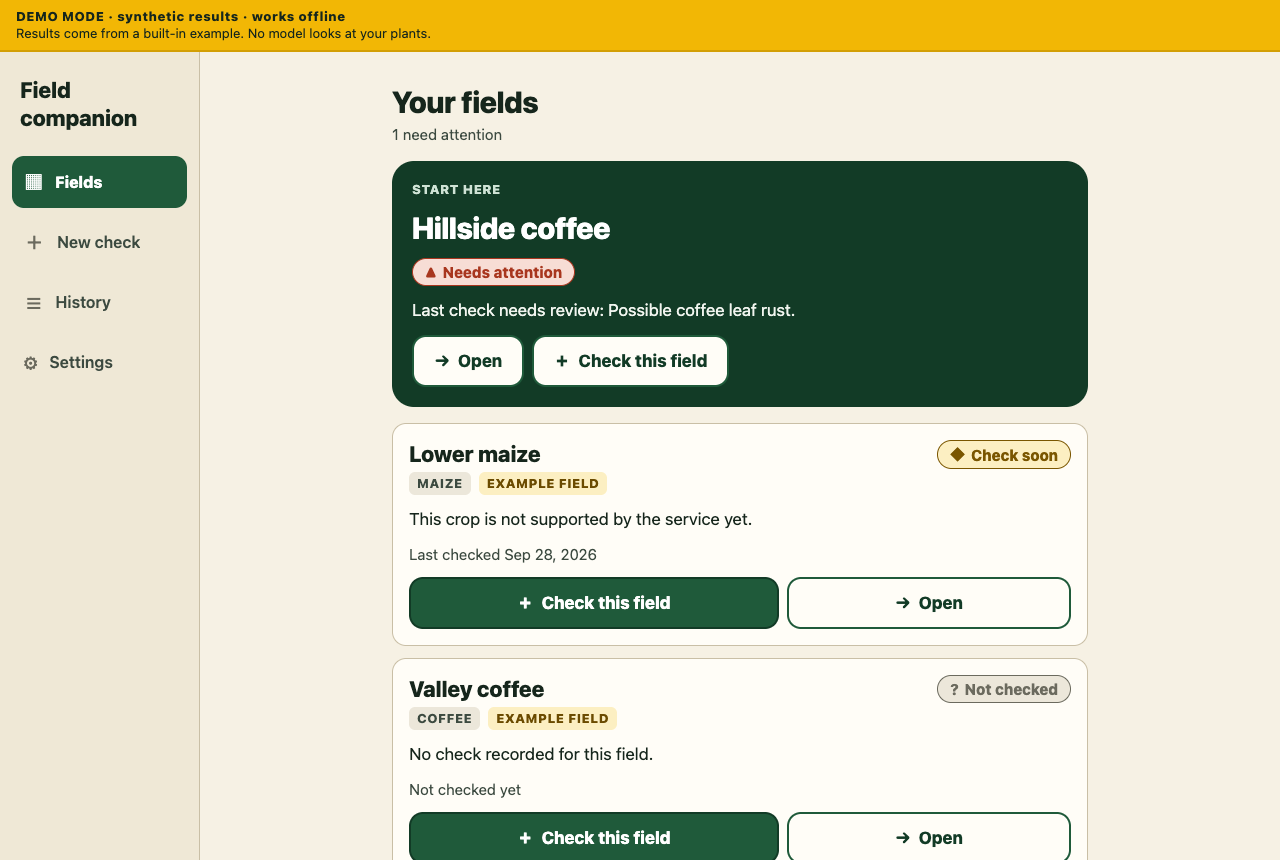
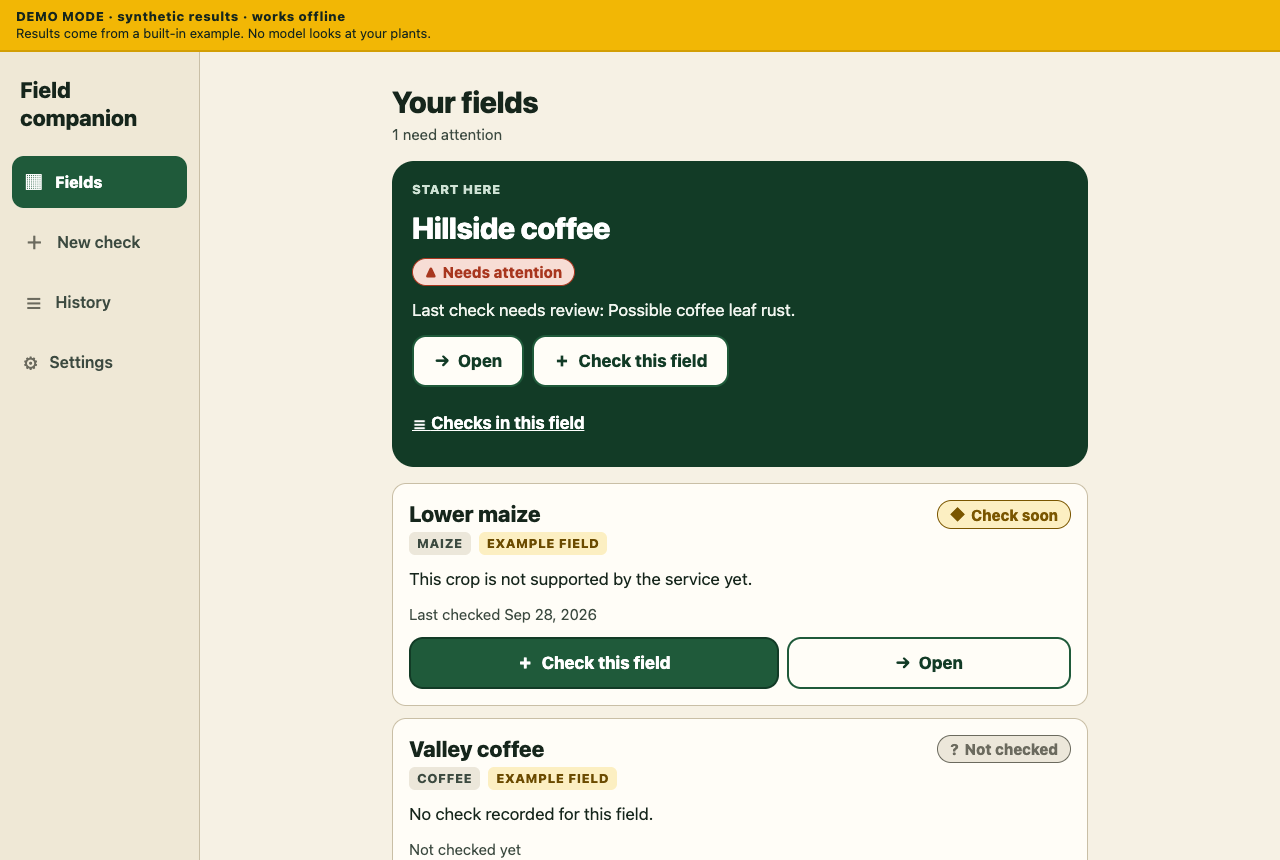
Field page: compare last two checks; reach hero field's timeline
Monitor step shows the two latest analysed checks side by side (label,
status, evidence score, weather class) with an uncalibrated-score note;
no trend is inferred. 'Start here' card gains a link to that field's
checks, which was previously unreachable from home.

Changed region(s): [[0.2812, 0.4535, 0.875, 1.0], [0.7188, 0.5744, 0.8438, 0.6349], [0.7188, 0.9674, 0.75, 0.9977]]

diff --git a/frontend/src/screens/HistoryScreens.tsx b/frontend/src/screens/HistoryScreens.tsx
@@ -70,8 +70,36 @@ export function FieldScreen({ nav, fieldId }: { nav: Nav; fieldId: string }) {
         <Body soft>{field.location ? t('field.location', { lat: field.location.latitude.toFixed(3), lon: field.location.longitude.toFixed(3) }) : t('field.noLocation')}</Body>
       </View>
       <Button label={t('field.newCheck')} icon="＋" onPress={() => nav.push({ name: 'check', fieldId })} />
+      <CompareLastTwo records={records} />
       <H2>{t('field.timeline')}</H2>
       {records.length ? records.map(r => <RecordRow key={r.id} record={r} nav={nav} />) : <Card><Body>{t('field.noChecks')}</Body></Card>}
     </View>
+  );
+}
+
+/** Monitor: the two most recent analysed checks side by side. Displays backend values only; no trend is inferred. */
+function CompareLastTwo({ records }: { records: ObservationRecord[] }) {
+  const { t, state } = useStore();
+  const done = records.filter(r => r.analysis.kind === 'done').slice(0, 2);
+  if (done.length < 2) return null;
+  const cell = (r: ObservationRecord, label: string) => {
+    const a = r.analysis.kind === 'done' ? r.analysis.analysis : undefined;
+    if (!a) return null;
+    return (
+      <View style={{ flex: 1, minWidth: 140, gap: space(1), padding: space(3), borderRadius: radius.sm, backgroundColor: color.paper }}>
+        <Text style={type.label}>{label.toUpperCase()} · {formatDate(r.createdAt, state.settings.locale)}</Text>
+        <Text style={type.heading}>{a.condition.label}</Text>
+        <Text style={type.small}>{t(`result.status.${a.status}` as MessageId)}</Text>
+        <Text style={type.small}>{t('field.compare.score', { score: a.condition.confidence.toFixed(2) })}</Text>
+        {a.weather_risk?.class ? <Text style={type.small}>{t('field.compare.weather', { cls: t(`result.weather.class.${a.weather_risk.class}` as MessageId) })}</Text> : null}
+      </View>
+    );
+  };
+  return (
+    <Card>
+      <H2 glyph="⇆">{t('field.compare')}</H2>
+      <Row wrap style={{ alignItems: 'stretch' }}>{cell(done[1], t('field.compare.before'))}{cell(done[0], t('field.compare.latest'))}</Row>
+      <Body soft>{t('field.compare.note')}</Body>
+    </Card>
   );
 }

diff --git a/frontend/src/screens/FieldsScreen.tsx b/frontend/src/screens/FieldsScreen.tsx
@@ -1,5 +1,5 @@
 import React, { useMemo, useState } from 'react';
-import { Text, TextInput, View } from 'react-native';
+import { Pressable, Text, TextInput, View } from 'react-native';
 import { fieldAttention, sortFieldsByAttention, type Field } from '../domain/model';
 import { formatDate, type MessageId } from '../i18n';
 import type { Nav } from '../navigation';
@@ -47,6 +47,10 @@ export function FieldsScreen({ nav }: { nav: Nav }) {
               : null}
             <Button kind="secondary" label={t('fields.checkThis')} a11yLabel={`${t('fields.checkThis')}: ${top.field.name}`} icon="＋" onPress={() => nav.push({ name: 'check', fieldId: top.field.id })} />
           </Row>
+          <Pressable accessibilityRole="button" accessibilityLabel={`${t('field.timeline')}: ${top.field.name}`} onPress={() => nav.push({ name: 'field', fieldId: top.field.id })}
+            style={{ minHeight: 48, justifyContent: 'center', alignSelf: 'flex-start' }}>
+            <Text style={[type.body, { color: '#fff', textDecorationLine: 'underline', fontWeight: '700' }]}>☰ {t('field.timeline')}</Text>
+          </Pressable>
         </View>
       ) : null}
 

diff --git a/frontend/src/i18n/fr.ts b/frontend/src/i18n/fr.ts
@@ -249,6 +249,12 @@ export const fr: Messages = {
   'mode.http.unverified': 'Pas encore vérifié. Ouvrez les réglages et touchez « Tester la connexion ».',
   'result.photo.notDurable': 'La photo n’a pas pu être copiée dans l’application. Elle est seulement liée depuis la galerie ou un dossier temporaire et peut disparaître. Votre constat est enregistré.',
   'result.regional': 'Dans votre région',
+  'field.compare': 'Comparer les deux derniers constats',
+  'field.compare.before': 'Avant',
+  'field.compare.latest': 'Dernier',
+  'field.compare.score': 'Score des indices {score}',
+  'field.compare.weather': 'Météo favorable : {cls}',
+  'field.compare.note': 'Les scores ne sont pas calibrés et dépendent de ce qui a été signalé à chaque fois ; un score différent ne signifie pas à lui seul que la maladie a progressé ou reculé.',
   'common.loading': 'Chargement…',
   'common.close': 'Fermer',
   'common.yes': 'Oui',

diff --git a/frontend/src/i18n/en.ts b/frontend/src/i18n/en.ts
@@ -247,6 +247,12 @@ export const en = {
   'mode.http.unverified': 'Not checked yet. Open Settings and tap Test connection.',
   'result.photo.notDurable': 'The photo could not be copied into app storage. It is only linked from the gallery or a temporary folder and may disappear. Your report is saved.',
   'result.regional': 'In your region',
+  'field.compare': 'Compare the last two checks',
+  'field.compare.before': 'Before',
+  'field.compare.latest': 'Latest',
+  'field.compare.score': 'Evidence score {score}',
+  'field.compare.weather': 'Weather favourability: {cls}',
+  'field.compare.note': 'Scores are uncalibrated and depend on what was reported each time; a different score does not by itself mean the disease got better or worse.',
   'common.loading': 'Loading…',
   'common.close': 'Close',
   'common.yes': 'Yes',

diff --git a/docs/frontend/README.md b/docs/frontend/README.md
@@ -7,7 +7,7 @@ Expo / React Native / TypeScript client for web, iOS and Android. Contract 0.1.0
 1. **Fields** — fields sorted by attention; a "Start here" card names the one field to look at and why. Attention is a presentation summary of the latest backend `status` plus record age (needs review → *Needs attention*; pending/failed/overdue/follow-up due → *Check soon*; never checked → *Not checked*). It is not a risk model.
 2. **New check** (3 steps) — field → optional photo + self-confirmed evidence checklist (daylight, leaf underside, close-up, several plants; the app says it does *not* judge photo quality) → symptoms (glyph + text) and *Sure / Not sure*. Saving writes durably on the device **before** any analysis request.
 3. **Result** — demo/live stamp, status badge (glyph + word), condition label and backend uncertainty text; "How strong is the evidence?" 3-segment meter with "signal score, not the chance the plant is sick"; tickable scouting steps + "Add another check" (request for more information); guidance with sources or a "No source attached: not verified advice" warning; weather (fresh/stale/unavailable); nearby risk (schematic map + legend + text list, or explicit unavailable/unsupported with limitations); follow-up in 3/7/14 days (in-app only); collapsible provenance/data-origin; "Saved on this phone only. Not uploaded".
-4. **History / field timeline** — every check with status, demo tag, "On this phone", follow-up due/date, photo marker.
+4. **History / field timeline** — side-by-side of the last two analysed checks (backend values only, no inferred trend); every check with status, demo tag, "On this phone", follow-up due/date, photo marker.
 5. **Settings** — language, result source (built-in demo vs server URL + Test connection), reset to example data (confirmation), explicit list of what this version does not do.
 
 ## Backend rich response (imported shared/ from backend 2990100)
